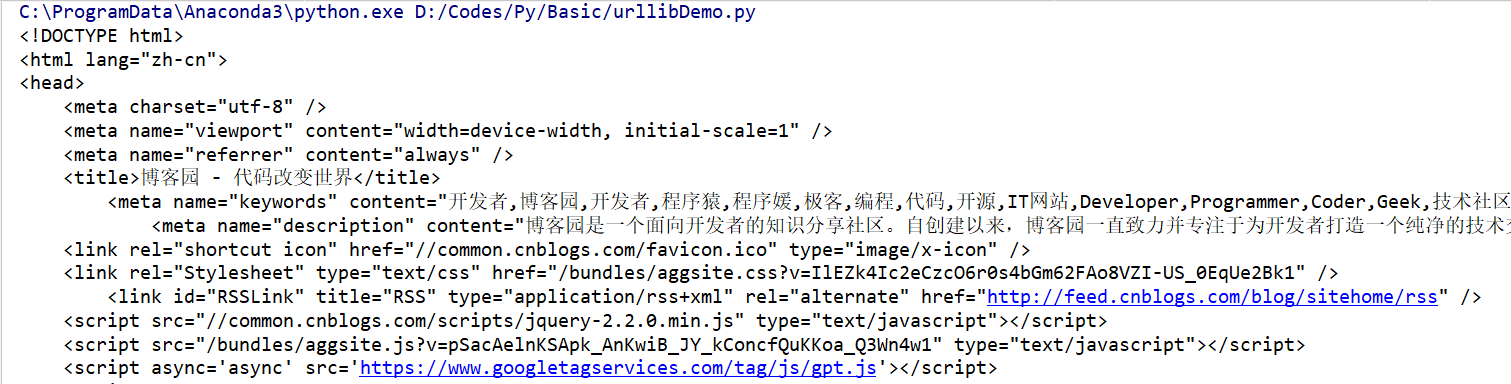
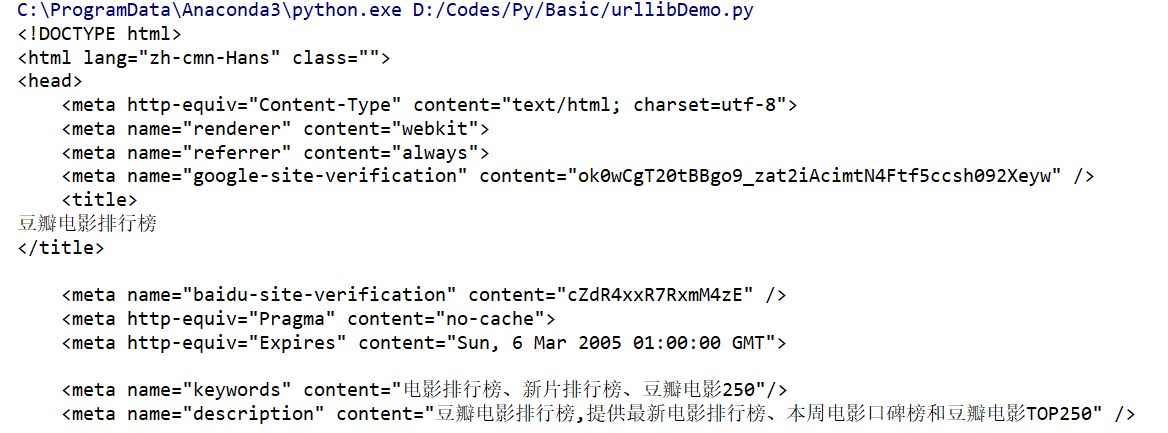
简单爬虫

Changed region(s): [[0.0, 0.0, 1.0, 1.0]]

diff --git a/应用/Spider.md b/应用/Spider.md
@@ -4,6 +4,17 @@
     - [爬虫过程](#爬虫过程)
     - [urllib库](#urllib库)
         - [request的使用](#request的使用)
+        - [urlopen方法](#urlopen方法)
+        - [Request方法](#request方法)
+    - [beautifulsoap库](#beautifulsoap库)
+        - [添加beautifulsoap库](#添加beautifulsoap库)
+        - [快速开始](#快速开始)
+        - [find_all](#find_all)
+        - [find_all和find应用](#find_all和find应用)
+    - [连接SQL Server入门](#连接sql-server入门)
+        - [模块](#模块)
+        - [连接](#连接)
+        - [获取内容](#获取内容)
 
 <!-- /TOC -->
 
@@ -57,8 +68,8 @@ request请求最简单的操作是用urlopen方法，代码如下：
 # urllib.request 主要用于打开和阅读url
 import urllib.request
 
-# 爬取博客园主页内容
-response = urllib.request.urlopen(url='https://www.cnblogs.com/')
+# 爬取豆瓣电影排行榜
+response = urllib.request.urlopen(url='https://movie.douban.com/chart')
 html = response.read().decode('utf-8')
 print(html)
 ```
@@ -67,29 +78,211 @@ print(html)
 
 ![](../assets/Spider/urlopen-1.png)
 
+<a id="markdown-urlopen方法" name="urlopen方法"></a>
+### urlopen方法
 
+```python
+def urlopen(url, data=None, timeout=socket._GLOBAL_DEFAULT_TI
+            MEOUT,*, cafile=None, capath=None, 
+            cadefault=False, context=None):
+```
 
+urlopen是request的其中一个方法，功能是打开一个URL，
 
+URL参数可以是一串字符串（如上例子中一样），也可以是**Request对象**（后面会提到）。
 
+* url：即是我们输入的url网址，（如：http://www.xxxx.com/）；
+* data：是我们要发给服务器请求的额外信息（比如登录网页需要主动填写的用户信息）。如果需要添加data参数，那么是POST请求，默认无data参数时，就是GET请求；
+    * 一般来讲，data参数只有在http协议下请求才有意义
+    * data参数被规定为byte object，也就是字节对象
+    * data参数应该使用标准的结构，这个需要使用urllib.parse.urlencode()将data进行 转换，而一般我们把data设置成字典格式再进行转换即可；data在以后实战中会介绍如何使用
+* timeout：是选填的内容，定义超时时间，单位是秒，防止请求时间过长，不填就是默认的时间；
+* cafile：是指向单独文件的，包含了一系列的CA认证 （很少使用，默认即可）;
+* capath：是指向文档目标，也是用于CA认证（很少使用，默认即可）；
+* cafile：可以忽略
+* context：设置SSL加密传输（很少使用，默认即可）；
 
+它会返回一个类文件对象，并可以针对这个对象进行各种操作（如上例中的read操作，将html全部读出来），其它常用方法还有：
 
+geturl(): 返回URL，用于看是否有重定向。
+info()：返回元信息，例如HTTP的headers。
+getcode()：返回回复的HTTP状态码，成功是200，失败可能是503等，可以用来检查代理IP的可使用性。
 
+<a id="markdown-request方法" name="request方法"></a>
+### Request方法
+```python
+class Request:
+    def __init__(self, url, data=None, headers={},
+                 origin_req_host=None, unverifiable=False,
+                 method=None):
+```
 
+如上定义，Request是一个类，初始化中包括请求需要的各种参数：
 
+* url，data和上面urlopen中的提到的一样。
+* headers是HTTP请求的报文信息，如User_Agent参数等，它可以让爬虫伪装成浏览器而不被服务器发现你正在使用爬虫。
+* origin_reg_host, unverifiable, method等不太常用
 
+headers很有用，有些网站设有反爬虫机制，检查请求若没有headers就会报错，为保证爬虫的稳定性，建议每次都会将headers信息加入进去，这是反爬的简单策略之一。
 
+可以把这个浏览器的headers信息复制下来使用。
 
+```python
+import urllib.request
 
+headers = {
+    'accept': 'text/html,application/xhtml+xml,application/xml;q=0.9,image/webp,image/apng,*/*;q=0.8',
+    'user-agent': 'Mozilla/5.0 (Windows NT 10.0; Win64; x64) AppleWebKit/537.36 (KHTML, like Gecko) Chrome/72.0.3626.81 Safari/537.36',
+}
 
+response = urllib.request.Request('https://movie.douban.com/chart', headers=headers)
+html = urllib.request.urlopen(response)
+result = html.read().decode('utf-8')
+print(result)
+```
 
+<a id="markdown-beautifulsoap库" name="beautifulsoap库"></a>
+## beautifulsoap库
+Beautiful Soup 是一个可以从HTML或XML文件中提取数据的Python库.
 
+它能够通过你喜欢的转换器实现惯用的文档导航,查找,修改文档的方式.
 
+Beautiful Soup会帮你节省数小时甚至数天的工作时间.
 
+<a id="markdown-添加beautifulsoap库" name="添加beautifulsoap库"></a>
+### 添加beautifulsoap库
 
+Beautiful Soup 3 目前已经停止开发，推荐在现在的项目中使用Beautiful Soup 4，不过它已经被移植到BS4了，也就是说导入时我们需要 import bs4 。
 
+在项目设置中添加BeautifulSoup库，【File】-【Settings】，如下图所示：
 
+![](../assets/Spider/beautiful-ins1.png)
 
+<a id="markdown-快速开始" name="快速开始"></a>
+### 快速开始
+首先必须要导入 bs4 库
+```python
+#urllib.request 主要用于打开和阅读url
+import urllib.request
+# 导入beautifulsoup库
+from bs4 import BeautifulSoup
 
+#爬取 豆瓣电影 Top 250
+response = urllib.request.urlopen('https://movie.douban.com/top250')
+html = response.read()
+#lxml指lxml HTML 解析器
+soup = BeautifulSoup(html, 'lxml')
+
+#打印title标签
+print(soup.title)#output:<title>...</title>
+```
+
+<a id="markdown-find_all" name="find_all"></a>
+### find_all
+```py
+#筛选所有 class为nbg的a标签
+print(soup.find_all('a',{'class':'nbg'}))
+```
+
+<a id="markdown-find_all和find应用" name="find_all和find应用"></a>
+### find_all和find应用
+```py
+# urllib.request 主要用于打开和阅读url
+import urllib.request
+# 导入beautifulsoup库
+from bs4 import BeautifulSoup
+
+#爬取 豆瓣电影 Top 250
+response = urllib.request.urlopen('https://movie.douban.com/top250')
+html = response.read()
+#lxml指lxml HTML 解析器
+soup = BeautifulSoup(html, 'lxml')
+
+#筛选所有 样式为item的div标签
+movieItems = soup.find_all('div', {'class': 'item'})
+print(len(movieItems))  # 每页25条记录
+
+nameList = []
+ratingList = []
+
+#遍历筛选得到的movies
+for htmlDiv in movieItems:
+    htmlTitle = htmlDiv.find('span', 'title')
+    htmlRating = htmlDiv.find('span', 'rating_num')
+    nameList.append(htmlTitle.get_text())  # 添加电影名称至列表
+    ratingList.append(htmlRating.get_text())  # 添加电影评分至列表
+
+#enumerate组合为索引序列，方便在循环时拿到索引
+for i, t in enumerate(nameList):
+    print(nameList[i] + '-' + ratingList[i])
+
+'''
+输出为：
+25
+肖申克的救赎-9.6
+霸王别姬-9.6
+这个杀手不太冷-9.4
+阿甘正传-9.4
+美丽人生-9.5
+泰坦尼克号-9.3
+千与千寻-9.3
+辛德勒的名单-9.5
+盗梦空间-9.3
+忠犬八公的故事-9.3
+机器人总动员-9.3
+三傻大闹宝莱坞-9.2
+海上钢琴师-9.2
+放牛班的春天-9.3
+楚门的世界-9.2
+大话西游之大圣娶亲-9.2
+星际穿越-9.2
+龙猫-9.2
+教父-9.2
+熔炉-9.3
+无间道-9.1
+疯狂动物城-9.2
+当幸福来敲门-9.0
+怦然心动-9.0
+触不可及-9.2
+'''
+```
+
+Beautiful Soup 4.4.0 中文文档
+
+>https://beautifulsoup.readthedocs.io/zh_CN/latest/
+
+官方文档：
+
+>https://www.crummy.com/software/BeautifulSoup/bs4/doc/
+
+<a id="markdown-连接sql-server入门" name="连接sql-server入门"></a>
+## 连接SQL Server入门
+<a id="markdown-模块" name="模块"></a>
+### 模块
+```py
+import pyodbc
+```
+
+pyodbc模块是用于odbc数据库（一种数据库通用接口标准）的连接，不仅限于SQL server，还包括Oracle,MySQL,Access,Excel等。
+
+<a id="markdown-连接" name="连接"></a>
+### 连接
+传递odbc标准的连接字符串给 connect 方法即可：
+
+对于SQL server写法如下：
+```py
+conn = pyodbc.connect(r'DRIVER={SQL Server Native Client 11.0};SERVER=192.168.1.1,3433;DATABASE=test;UID=user;PWD=password')
+```
+其中3433为端口号，如果默认为1433则可以省略
+
+注意：不同的SQL server版本对应的DRIVER字段不同。对应关系如下：
+* {SQL Server} - released with SQL Server 2000
+* {SQL Native Client} - released with SQL Server 2005 (also known as version 9.0)
+* {SQL Server Native Client 10.0} - released with SQL Server 2008
+* {SQL Server Native Client 11.0} - released with SQL Server 2012
+
+<a id="markdown-获取内容" name="获取内容"></a>
+### 获取内容
 
 
 
@@ -101,3 +294,7 @@ print(html)
 参考引用：
 
 [Python爬虫学习](https://segmentfault.com/a/1190000012681700)
+
+[Python 3 教程](http://www.runoob.com/python3/python3-tutorial.html)
+
+[Python连接SQL Server入门](https://blog.csdn.net/chroming/article/details/51541959)
